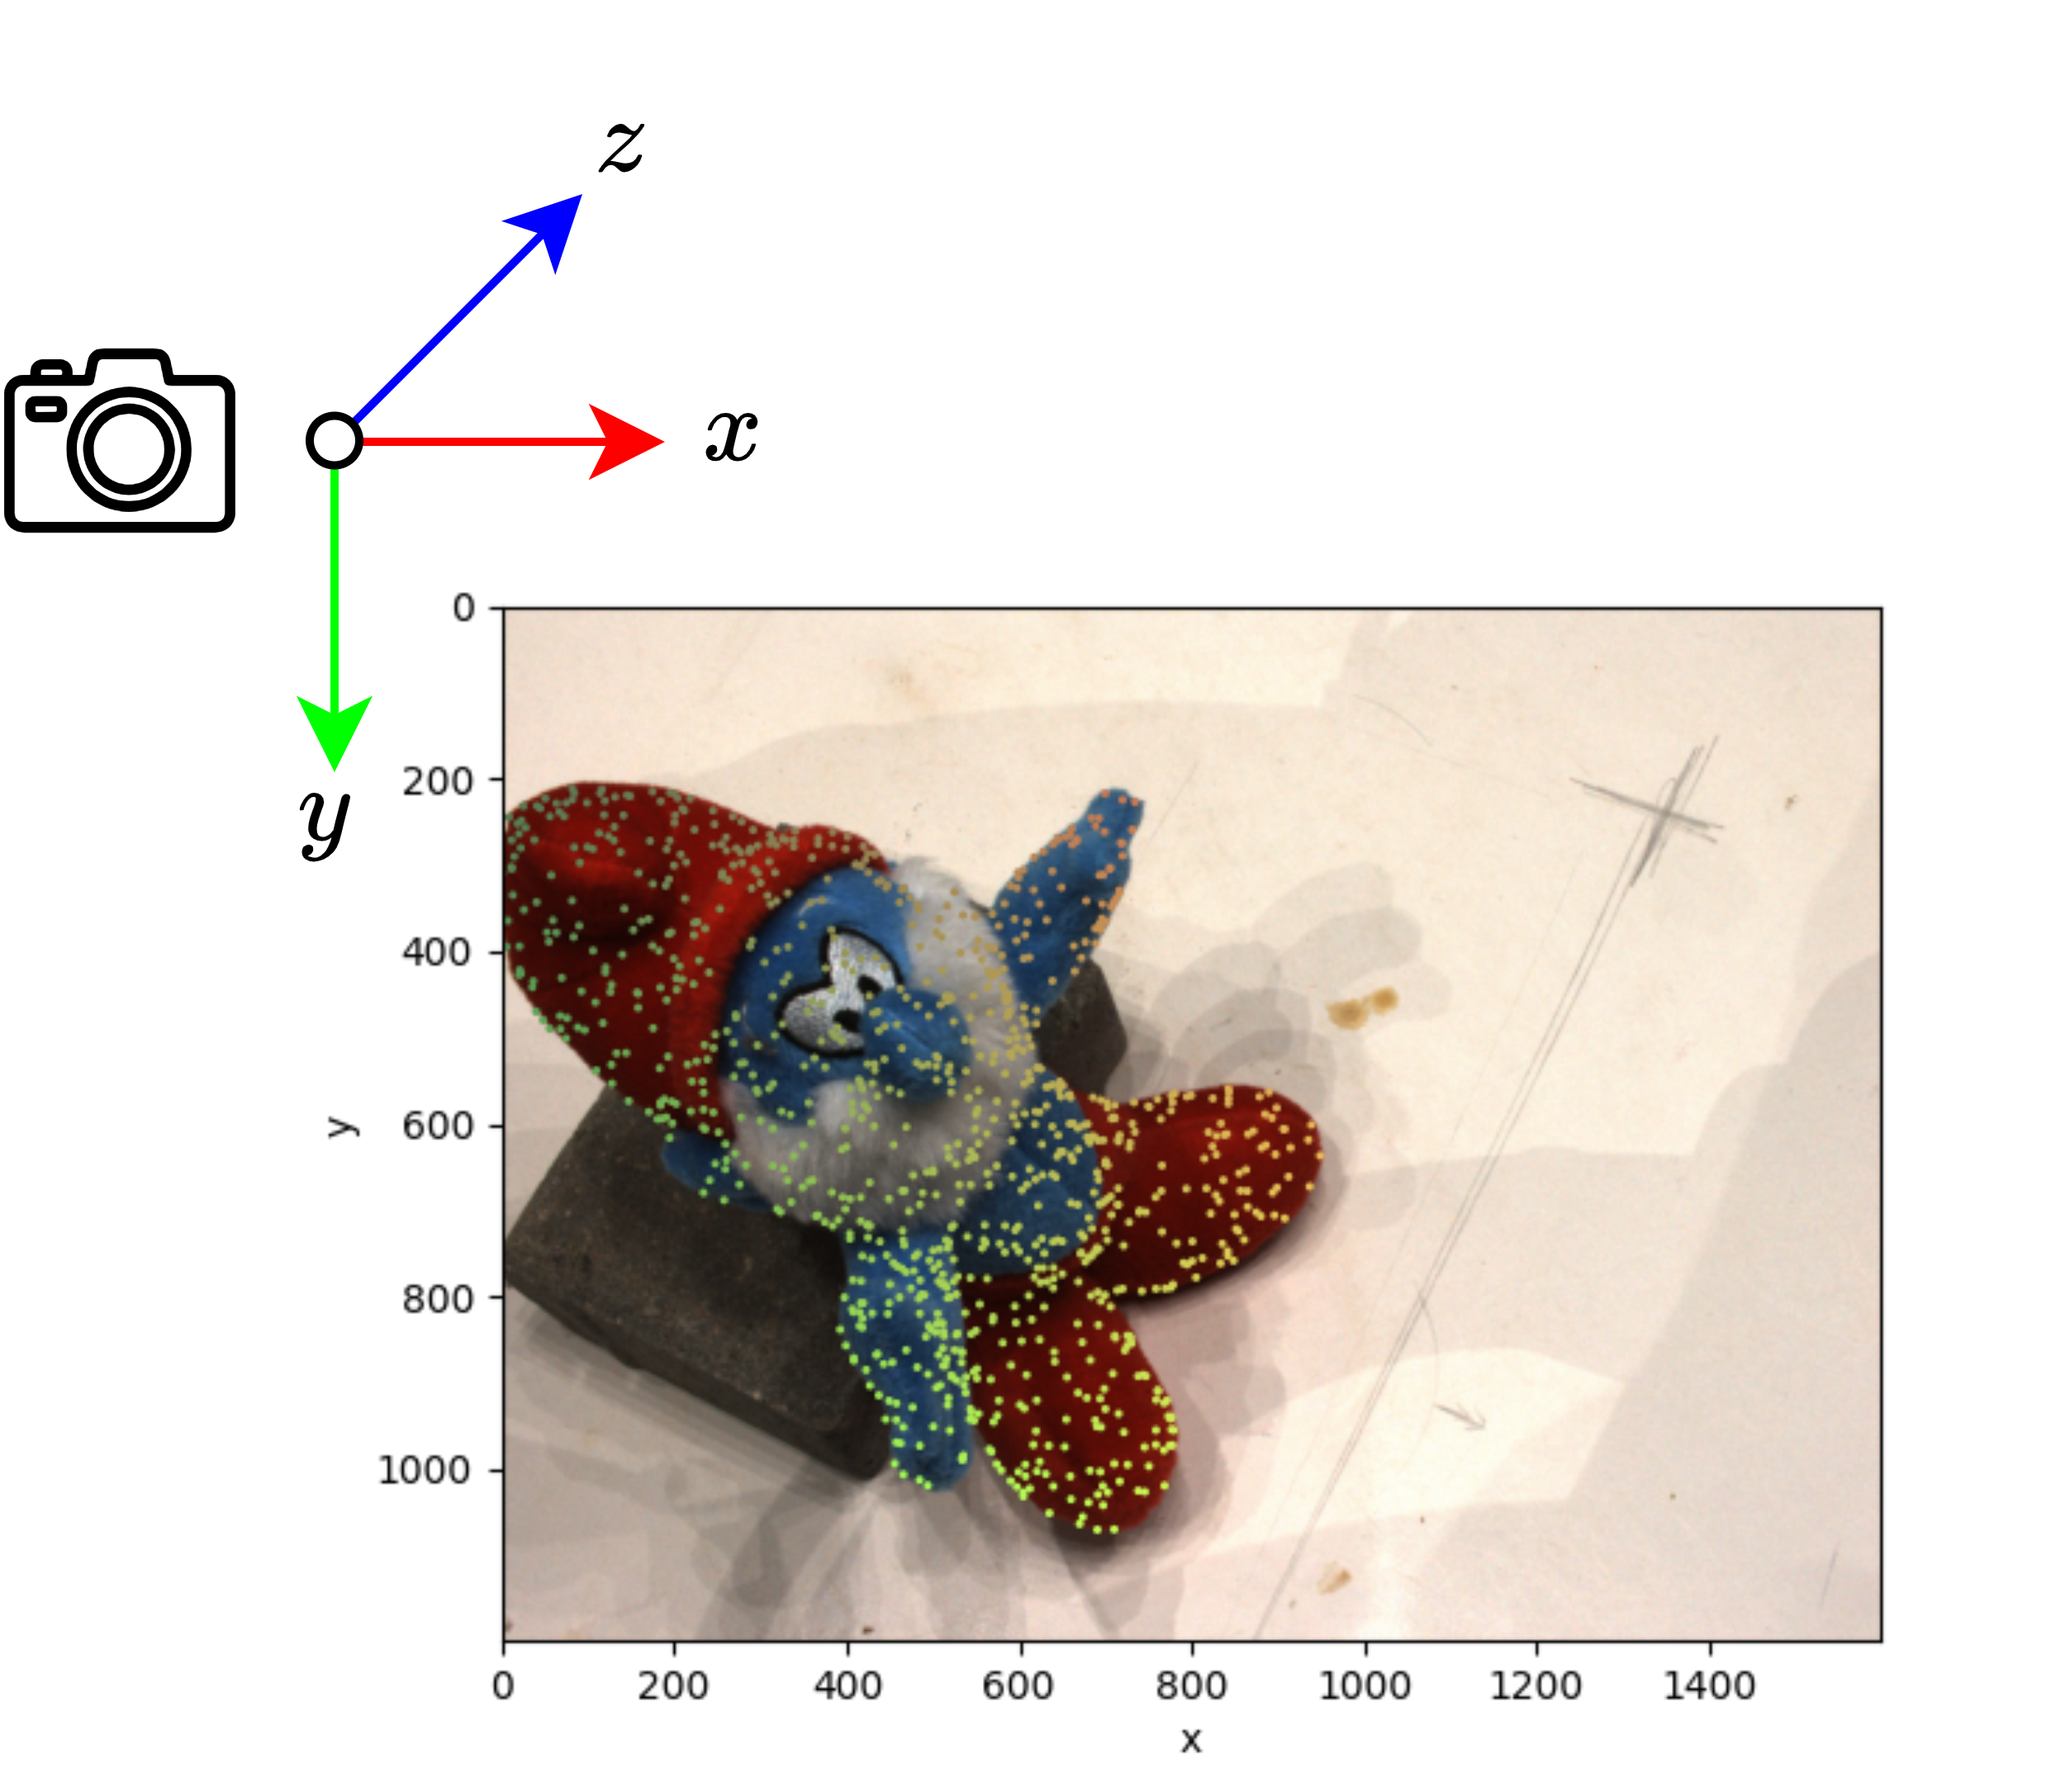
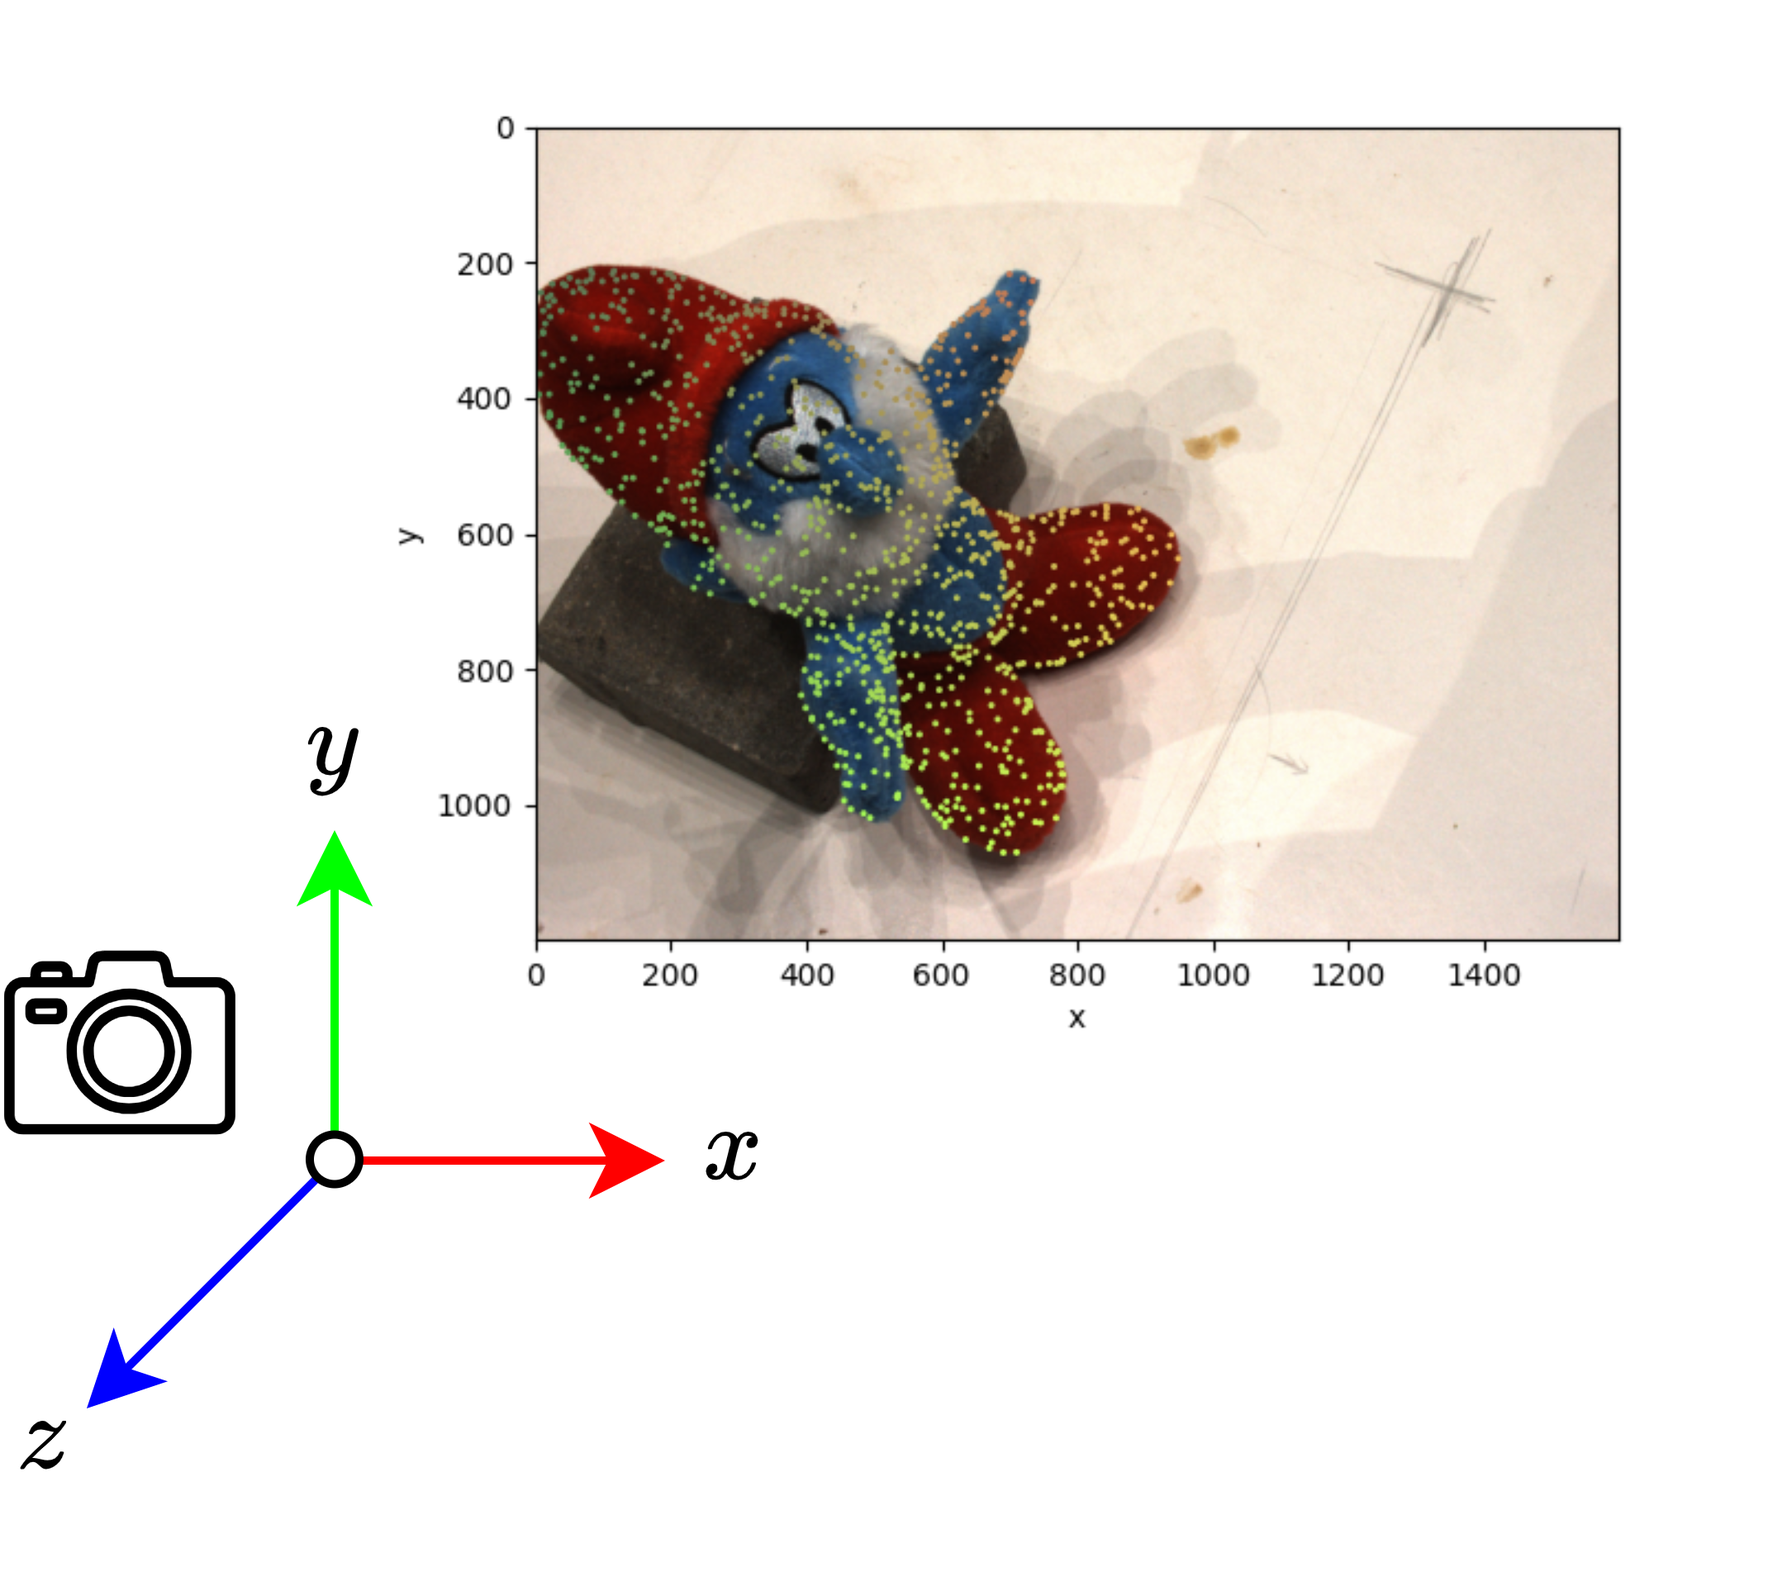
using opengl camera frame

diff --git a/datasets/mv_dataset.py b/datasets/mv_dataset.py
@@ -20,37 +20,41 @@ def get_poses_all(cameras):
     return poses
 
 
-def load_point_cloud(point_cloud_path, max_nr_points=1000):
-    """Loads a point cloud from a file.
+def load_point_clouds(point_clouds_paths, max_nr_points=1000):
+    """Loads point cloud from files.
     If the file is a mesh, points are its vertices.
 
     Args:
-        point_cloud_path: path to the point cloud file
+        point_clouds_paths: ordered list of point cloud file paths
         max_nr_points: maximum number of points to load
 
     Returns:
-        points_3d: (N, 3) numpy array
+        point_clouds []: ordered list of (N, 3) numpy arrays
     """
-    # if exists, load it
-    if os.path.exists(point_cloud_path):
-        # if format is .ply or .obj
-        if point_cloud_path.endswith(".ply") or point_cloud_path.endswith(".obj"):
-            print("Loading point cloud from {}".format(point_cloud_path))
-            point_cloud = o3d.io.read_point_cloud(point_cloud_path)
-            points_3d = np.asarray(point_cloud.points)
-            if points_3d.shape[0] > max_nr_points:
-                # downsample
-                random_idx = np.random.choice(
-                    points_3d.shape[0], max_nr_points, replace=False
-                )
-                points_3d = points_3d[random_idx]
-            print("Loaded {} points from mesh".format(points_3d.shape[0]))
-        else:
-            raise ValueError("Unsupported point cloud format")
-    else:
-        raise ValueError("Point cloud path {} does not exist".format(point_cloud_path))
 
-    return points_3d
+    point_clouds = []
+    for pc_path in point_clouds_paths:
+        # if exists, load it
+        if os.path.exists(pc_path):
+            # if format is .ply or .obj
+            if pc_path.endswith(".ply") or pc_path.endswith(".obj"):
+                print("Loading point cloud from {}".format(pc_path))
+                point_cloud = o3d.io.read_point_cloud(pc_path)
+                points_3d = np.asarray(point_cloud.points)
+                if points_3d.shape[0] > max_nr_points:
+                    # downsample
+                    random_idx = np.random.choice(
+                        points_3d.shape[0], max_nr_points, replace=False
+                    )
+                    points_3d = points_3d[random_idx]
+                    point_clouds.append(points_3d)
+                print("Loaded {} points from mesh".format(points_3d.shape[0]))
+            else:
+                raise ValueError("Unsupported point cloud format")
+        else:
+            raise ValueError("Point cloud path {} does not exist".format(pc_path))
+
+    return point_clouds
 
 
 class MVDataset(Dataset):
@@ -63,7 +67,7 @@ class MVDataset(Dataset):
         dataset_name,
         scene_name,
         data_path,
-        point_cloud_path=None,
+        point_clouds_paths=[],
         split="train",  # "all", train", "test"
         use_every_for_test_split=8,
         train_test_no_overlap=True,
@@ -118,12 +122,10 @@ class MVDataset(Dataset):
             print("ERROR: dataset not supported")
             sys.exit()
 
-        if point_cloud_path is not None:
-            self.point_cloud = load_point_cloud(point_cloud_path)
+        if len(point_clouds_paths) > 0:
+            self.point_clouds = load_point_clouds(point_clouds_paths)
         else:
-            self.point_cloud = np.empty((0, 3))
-
-        # scene = Scene(cameras_all, point_cloud)
+            self.point_clouds = []
 
         # # align and center poses
         # poses_all = get_poses_all(cameras_all)

diff --git a/test_dynamic_scenes.py b/test_dynamic_scenes.py
@@ -40,23 +40,22 @@ print("Scene data path: {}".format(scene_data_path))
 #     particles_path = os.path.join(original_data_path, "frames", "particles-000000000.dat")
 #     points_3d = load_particles_fluidsym(particles_path)
 
-# elif dataset_name == "pac_nerf":
 # load gt particles
-particles_path = os.path.join("debug", "particles", dataset_name, scene_name, "0.ply")
-# # make sure folder exists
-# if not os.path.exists(scene_data_path):
-#     print(f"scene point cloud not found in {scene_data_path}")
-#     points_3d = np.zeros((0, 3))
-# else:
-#     points_3d = load_particles_pacnerf(particles_path)
+particles_dir = os.path.join("debug", "particles", dataset_name, scene_name)
+particles_files = os.listdir(particles_dir)
+# sort by increasing int
+particles_files = sorted(particles_files, key=lambda x: int(x.split(".")[0]))
+particles_paths = []
+for file in particles_files:
+    particles_paths.append(os.path.join(particles_dir, file))
 
 # dataset loading
 training_data = MVDataset(
     dataset_name,
     scene_name,
     scene_data_path,
-    point_cloud_path=particles_path,
-    split="train",
+    point_clouds_paths=particles_paths,
+    split="all",
     load_with_mask=True,
     auto_center_method="none",  # "poses", "focus", "none"
     auto_orient_method="none",  # "up", "none"
@@ -68,10 +67,10 @@ training_data = MVDataset(
 
 fig = plot_cameras(
     training_data.cameras,
-    points=training_data.point_cloud,
+    points=training_data.point_clouds[0],
     azimuth_deg=20,
     elevation_deg=30,
-    up="z",
+    up="y",
     figsize=(15, 15),
 )
 
@@ -88,18 +87,29 @@ print("img_torch", img_torch.shape)
 img_pil = tensor2image(img_torch)
 img_pil.save("test_dynamic_scenes_mask.png")
 
-camera_idx = 0
-w2c = np.linalg.inv(training_data.cameras[camera_idx].get_pose().cpu().numpy())
+camera_idx = 1
+timestamp_idx = 7
+img_np = training_data.cameras[camera_idx].get_frame(timestamp_idx).cpu().numpy()
 intrinsics = training_data.cameras[camera_idx].intrinsics.cpu().numpy()
 points_2d = project_points_3d_to_2d(
-    points=training_data.point_cloud, intrinsics=intrinsics, w2c=w2c
+    points_3d=training_data.point_clouds[timestamp_idx],
+    intrinsics=intrinsics,
+    c2w=training_data.cameras[camera_idx].get_pose().cpu().numpy(),
 )
-img_np = training_data.cameras[camera_idx].get_frame().cpu().numpy()
+# filter out points outside image range
+points_2d = points_2d[points_2d[:, 0] > 0]
+points_2d = points_2d[points_2d[:, 1] > 0]
+points_2d = points_2d[points_2d[:, 0] < img_np.shape[1]]
+points_2d = points_2d[points_2d[:, 1] < img_np.shape[0]]
 print("points_2d", points_2d.shape)
 
 fig = plt.figure()
-plt.imshow(img_np)
-plt.scatter(points_2d[:, 0], points_2d[:, 1], s=1, c="r")
+plt.imshow(img_np, alpha=1.0)
+colors = np.column_stack([points_2d, np.zeros((points_2d.shape[0], 1))])
+colors /= np.max(colors)
+colors += 0.5
+colors /= np.max(colors)
+plt.scatter(points_2d[:, 0], points_2d[:, 1], s=5, c=colors, marker=".")
 plt.gca().set_aspect("equal", adjustable="box")
 plt.xlabel("x")
 plt.ylabel("y")

diff --git a/test_static_scenes.py b/test_static_scenes.py
@@ -27,7 +27,10 @@ assert os.path.exists(scene_data_path), "Scene data path does not exist"
 print("Scene data path: {}".format(scene_data_path))
 
 # load gt mesh if exists
-gt_mesh_path = os.path.join("debug/meshes/", dataset_name, scene_name, "mesh.ply")
+gt_meshes_paths = [os.path.join("debug/meshes/", dataset_name, scene_name, "mesh.ply")]
+# point_cloud_path = os.path.join(
+#     "debug", "point_clouds", dataset_name, f"{scene_name}.ply"
+# )
 # # if exists, load it
 # if os.path.exists(gt_mesh_path):
 #     print("Found gt mesh at {}".format(gt_mesh_path))
@@ -47,8 +50,9 @@ training_data = MVDataset(
     dataset_name,
     scene_name,
     scene_data_path,
-    point_cloud_path=gt_mesh_path,
-    split="all",
+    point_clouds_paths=gt_meshes_paths,
+    split="train",
+    use_every_for_test_split=2,
     auto_center_method="none",  # "poses", "focus", "none"
     auto_orient_method="none",  # "up", "none"
     # auto_scale_poses=False,
@@ -67,10 +71,10 @@ training_data = MVDataset(
 
 fig = plot_cameras(
     training_data.cameras,
-    points=training_data.point_cloud,
+    points=training_data.point_clouds[0],
     azimuth_deg=20,
     elevation_deg=30,
-    up="z",
+    up="y",
     figsize=(15, 15),
 )
 
@@ -87,18 +91,19 @@ print("img_torch", img_torch.shape)
 img_pil = tensor2image(img_torch)
 img_pil.save("test_static_scenes_mask.png")
 
-camera_idx = 0
+camera_idx = 3
 img_np = training_data.cameras[camera_idx].get_frame().cpu().numpy()
-w2c = np.linalg.inv(training_data.cameras[camera_idx].get_pose().cpu().numpy())
 intrinsics = training_data.cameras[camera_idx].intrinsics.cpu().numpy()
 points_2d = project_points_3d_to_2d(
-    points=training_data.point_cloud, intrinsics=intrinsics, w2c=w2c
+    points_3d=training_data.point_clouds[0],
+    intrinsics=intrinsics,
+    c2w=training_data.cameras[camera_idx].get_pose().cpu().numpy(),
 )
 # filter out points outside image range
 points_2d = points_2d[points_2d[:, 0] > 0]
 points_2d = points_2d[points_2d[:, 1] > 0]
-points_2d = points_2d[points_2d[:, 1] < img_np.shape[1]]
-points_2d = points_2d[points_2d[:, 0] < img_np.shape[0]]
+points_2d = points_2d[points_2d[:, 0] < img_np.shape[1]]
+points_2d = points_2d[points_2d[:, 1] < img_np.shape[0]]
 print("points_2d", points_2d.shape)
 
 fig = plt.figure()

diff --git a/datasets/utils/geometry.py b/datasets/utils/geometry.py
@@ -103,20 +103,26 @@ def transform_points_3d(points, transform):
     return np.dot(transform[:3, :3], points.T).T + transform[:3, 3]
 
 
-def project_points_3d_to_2d(points, intrinsics, w2c):
+def project_points_3d_to_2d(points_3d, intrinsics, c2w):
     """Project 3D points to 2D points
-    args: points (N, 3)
-    projection_matrix (3, 4)
-    out: points (N, 2)
+    args:
+        points_3d (N, 3)
+        c2w: (3, 4)
+        intrinsics: (3, 3)
+    out:
+        points_2d (N, 2)
     """
 
-    # transform the points from the world coordinate system to the camera coordinate system using the inverse of the camera pose matrix
-    transformed_points = transform_points_3d(points, w2c)
+    # get world to camera transformation
+    w2c = np.linalg.inv(c2w)
 
-    # Assuming camera_intrinsics is a 3x3 numpy array representing the intrinsic matrix
-    projected_points = np.dot(intrinsics, transformed_points.T).T
-    # Normalize the coordinates
-    projected_points[:, 0] /= projected_points[:, 2]
-    projected_points[:, 1] /= projected_points[:, 2]
+    # view transformation
+    points_3d_camera = transform_points_3d(points_3d, w2c)
 
-    return projected_points[:, :2]
+    # perspective transformation
+    points_2d_homogeneous = (intrinsics @ points_3d_camera.T).T
+
+    # convert to 2D coordinates by dividing by the last column (homogeneous coordinate)
+    points_2d = points_2d_homogeneous[:, :2] / points_2d_homogeneous[:, 2:]
+
+    return points_2d

diff --git a/datasets/loaders/pac_nerf.py b/datasets/loaders/pac_nerf.py
@@ -7,6 +7,7 @@ import open3d as o3d
 from PIL import Image
 
 from datasets.utils.images import numpy2image, image2numpy
+from datasets.utils.geometry import rot_x_3d, rot_z_3d, pose_local_rotation
 from datasets.scenes.camera import Camera
 
 # def load_particles_fluidsym(path):
@@ -67,7 +68,19 @@ def load_pac_nerf(data_path, n_cameras=1, load_with_mask=False, device="cpu"):
         ]
 
         poses_all[cam_id] = np.eye(4)
-        poses_all[cam_id, :3, :4] = entry["c2w"]
+
+        pose = np.eye(4)
+        pose[:3, :4] = np.array(entry["c2w"])
+        # invert z axis
+        # pose[:3, 2] *= -1
+        # rotate 180 around z-axis
+        # rot_z = rot_z_3d(np.pi)
+        # pose = pose_local_rotation(pose, rot_z)
+        # invert x axis
+        pose[:3, 0] *= -1
+        # pose = pose_local_rotation(pose, rot_x)
+
+        poses_all[cam_id] = pose
         intrinsics_all[cam_id] = entry["intrinsic"]
         img_pil = Image.open(os.path.join(data_path, entry["file_path"]))
         img_np = image2numpy(img_pil)[..., :3]

diff --git a/datasets/loaders/dtu.py b/datasets/loaders/dtu.py
@@ -92,9 +92,24 @@ def load_dtu(
         projection_np = projection_np[:3, :4]
         intrinsics, pose = load_K_Rt_from_P(None, projection_np)
 
+        # flip local x-axis
+        # pose[:3, 0] *= -1
+
         # rotation around x axis by 115 degrees
         rotation = rot_x_3d(deg2rad(rotate_scene_x_axis_degrees))
         pose = pose_global_rotation(pose, rotation)
+
+        # transformation flipping the z-axis
+        # rotation = np.array([[1, 0, 0], [0, 1, 0], [0, 0, -1]], dtype=np.float32)
+        # pose = pose_global_rotation(pose, rotation)
+
+        # rotation around x axis by 115 degrees
+        # rotation = rot_x_3d(deg2rad(-rotate_scene_x_axis_degrees))
+        # pose = pose_global_rotation(pose, rotation)
+
+        pose[:3, 0] *= -1
+        pose[:3, 2] *= -1
+        pose[:3, 1] *= -1
 
         # scale
         pose[:3, 3] *= scene_scale_multiplier

diff --git a/datasets/scenes/camera.py b/datasets/scenes/camera.py
@@ -102,13 +102,13 @@ class Camera:
         pose = self.transform @ self.pose
         return pose
 
-    def get_projection(self):
-        """return camera projection matrix
-        out: projection (3, 4)
-        """
-        # Perform the matrix multiplication
-        projection = self.intrinsics @ self.get_pose()[:3, :4]
-        return projection
+    # def get_projection(self):
+    #     """return camera projection matrix
+    #     out: projection (3, 4)
+    #     """
+    #     # Perform the matrix multiplication
+    #     projection = self.intrinsics @ self.get_pose()[:3, :4]
+    #     return projection
 
     # def get_pose_inv(self):
     #     pose_inv = torch.inverse(self.get_pose())

diff --git a/README.md b/README.md
@@ -6,20 +6,47 @@ University of Tübingen, Autonomous Vision Group
 
 Various data loaders for multi-view datasets commonly used in 3D reconstruction and view-synthesis.
 
-Static:
+Static (3D):
 - [DTU](#)
 - [NeRF-Synthetic](#)
 
-Dynamica:
+Dynamic (4D):
 - [PAC-NERF](#)
 
 Soon to be supported:
 - [NeRF-LLFF](#)
 - [NeRF-360](#)
 
-## Misc
-This code uses an "OpenCV" style camera coordinate system, where the Y-axis points downwards (the up-vector points in the negative Y-direction), the X-axis points right, and the Z-axis points into the image plane.
+## Cameras
+This code uses an "OpenGL" style camera coordinate system:
+- *Right Vector* ($`x`$): Represents rightward direction.
+- *Up Vector* ($`y`$): Represents upward direction.
+- *Forward Vector* ($`z`$): Represents backward direction (along negative Z-axis).
     
 <p align="middle">
   <img src="imgs/datasets_frame.png" width="400"/>
 </p>
+
+<p align="middle">
+  <img src="imgs/dtu_poses.png" width="400"/>
+</p>
+
+# Citation
+
+If you use this library for your research, please consider citing:
+
+```
+@inproceedings{datasets,
+	title        = {DataSets: Standardized Loaders for Multi-View Datasets},
+	author       = {
+		Stefano Esposito
+	},
+	year         = 2023
+}
+```
+
+# Contributors
+
+<a href="https://github.com/s-esposito/datasets/graphs/contributors">
+  <img src="https://contrib.rocks/image?repo=s-esposito/datasets" />
+</a>
